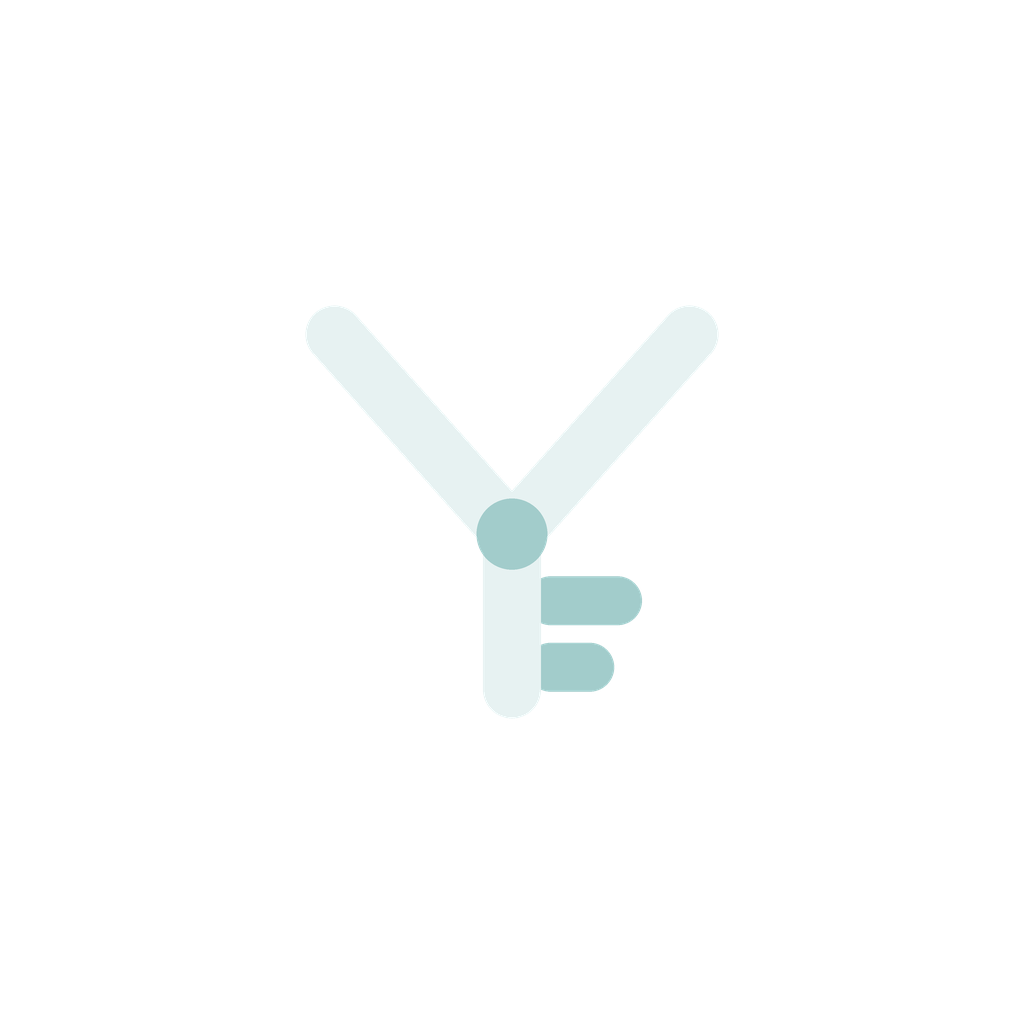
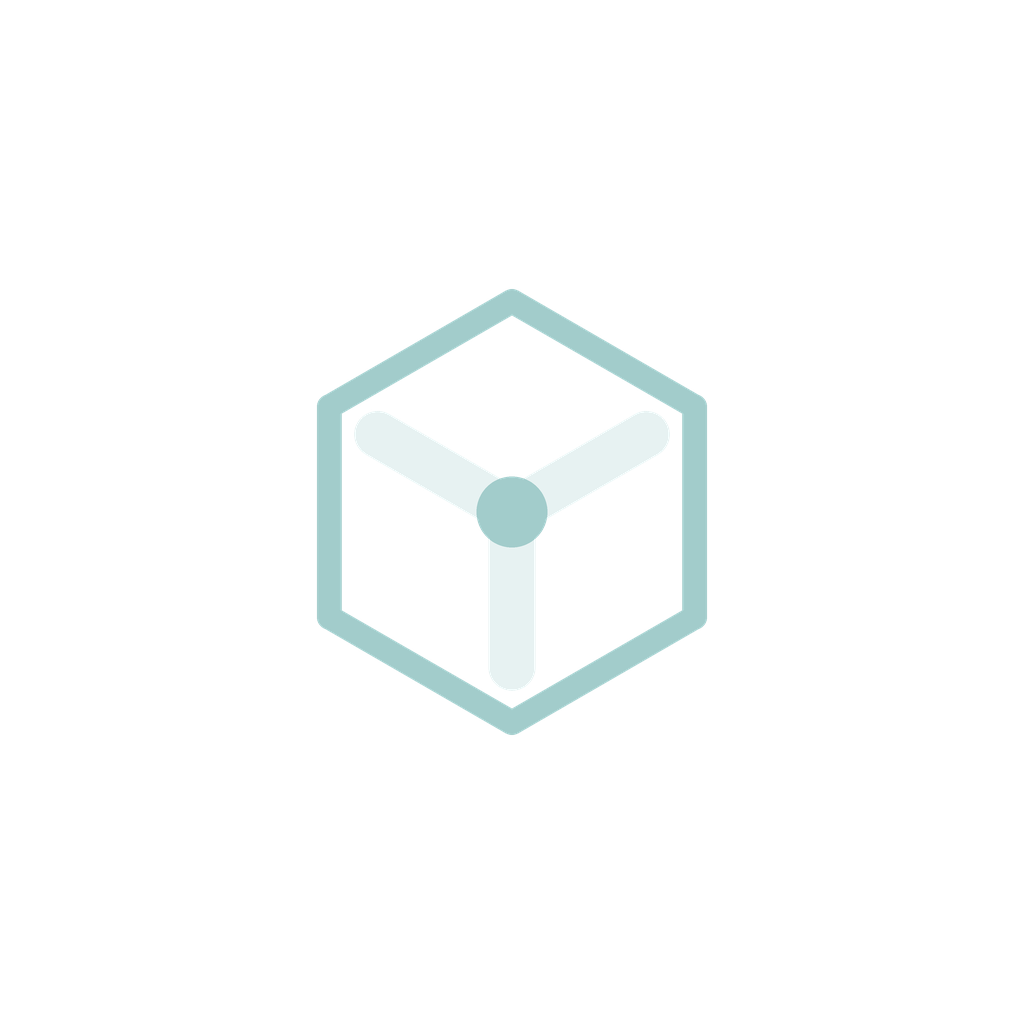
fix(06.1-critique): brand mark is a room corner in its isometric outline, no letter read

Changed region(s): [[0.3125, 0.2812, 0.6875, 0.7188]]

diff --git a/virtumetry/src/components/library-empty-art.tsx b/virtumetry/src/components/library-empty-art.tsx
@@ -13,7 +13,7 @@ const ORIGIN = `translate(${160 - 12 * SCALE} ${86 - 13 * SCALE}) scale(${SCALE}
 
 /** Critique F3: brand corner on the flat drafting field (same as onboarding), accent walking path, no mint. Decorative. */
 export function LibraryEmptyArt() {
-  const { arms, ticks, dot } = glyphs.brandMark;
+  const { arms, outline, dot } = glyphs.brandMark;
   const [w, setW] = useState(0);
   return (
     <View accessible={false} importantForAccessibility="no-hide-descendants" style={styles.panel} onLayout={(e) => setW(e.nativeEvent.layout.width)}>
@@ -23,7 +23,7 @@ export function LibraryEmptyArt() {
           <Path d="M70 130A90 100 0 0 1 250 130" stroke={color.accent} strokeWidth={3} strokeDasharray="2 10" strokeLinecap="round" fill="none" />
           <G transform={ORIGIN}>
             <Path d={arms} stroke={color.text} strokeOpacity={0.9} strokeWidth={0.8} strokeLinecap="round" strokeLinejoin="round" fill="none" />
-            <Path d={ticks} stroke={color.text} strokeOpacity={0.9} strokeWidth={0.6} strokeLinecap="round" fill="none" />
+            <Path d={outline} stroke={color.text} strokeOpacity={0.9} strokeWidth={0.6} strokeLinecap="round" fill="none" />
             <Circle {...dot} fill={color.accent} />
           </G>
         </Svg>

diff --git a/virtumetry/src/design/glyphs.ts b/virtumetry/src/design/glyphs.ts
@@ -28,13 +28,13 @@ export const glyphs = {
   linkOff: {
     d: 'M10 14a4 4 0 0 1 0-5.6l2-2a4 4 0 0 1 5.6 5.6l-1 1 M14 10a4 4 0 0 1 0 5.6l-2 2a4 4 0 0 1-5.6-5.6l1-1 M4 4l16 16',
   },
-  // §13.1 "room corner with a scale": arms/stem in text (width 2), ticks + vertex dot in primary.
+  // Room corner inside its isometric outline: three edges in text, outline + vertex dot in primary (round-2 critique: no letter read).
   // Ticks (major + minor) sit on the stem: height is the measurement. Mirrored by scripts/render-brand.py.
   brandMark: {
-    arms: 'M4 5L12 14M20 5L12 14M12 14V21',
-    ticks: 'M13.75 17h3 M13.75 20h1.75',
+    arms: 'M12 14L5.94 10.5M12 14L18.06 10.5M12 14L12.0 21.0',
+    outline: 'M12.0 4.5L3.77 9.25L3.77 18.75L12.0 23.5L20.23 18.75L20.23 9.25Z',
     dot: { cx: 12, cy: 14, r: 1.6 },
   },
-} as const satisfies Record<string, Glyph | { arms: string; ticks: string; dot: Dot }>;
+} as const satisfies Record<string, Glyph | { arms: string; outline: string; dot: Dot }>;
 
 export type GlyphId = Exclude<keyof typeof glyphs, 'brandMark'>;

diff --git a/virtumetry/src/components/ui/brand-mark.tsx b/virtumetry/src/components/ui/brand-mark.tsx
@@ -16,13 +16,13 @@ type Props = {
 
 /** UI-SPEC §13.1 "room corner with a scale". Only the lockup is exposed to screen readers. */
 export function BrandMark({ size = 32, variant = 'mark', mono, color: monoColor = color.textMuted }: Props) {
-  const { arms, ticks, dot } = glyphs.brandMark;
+  const { arms, outline, dot } = glyphs.brandMark;
   const stem = mono ? monoColor : color.text;
   const accent = mono ? monoColor : color.primary;
   const mark = (
     <Svg width={size} height={size} viewBox="0 0 24 24" accessible={false}>
       <Path d={arms} stroke={stem} strokeWidth={size <= 20 ? 1.75 : 2} strokeLinecap="round" strokeLinejoin="round" fill="none" />
-      <Path d={ticks} stroke={accent} strokeWidth={1.5} strokeLinecap="round" fill="none" />
+      <Path d={outline} stroke={accent} strokeWidth={1} strokeLinecap="round" strokeLinejoin="round" fill="none" />
       <Circle {...dot} fill={accent} />
     </Svg>
   );

diff --git a/virtumetry/scripts/render-brand.py b/virtumetry/scripts/render-brand.py
@@ -15,11 +15,11 @@ PRIMARY = (162, 204, 203)
 WHITE = (255, 255, 255)
 BLACK = (0, 0, 0)
 
-ARMS = [((4, 5), (12, 14)), ((20, 5), (12, 14)), ((12, 14), (12, 21))]
-# Ticks sit on the vertical stem: height is the measurement. Drawn under the arms so they read as one ruler.
-TICKS = [((13.75, 17), (16.75, 17)), ((13.75, 20), (15.5, 20))]  # major + minor
+ARMS = [((12, 14), (5.94, 10.5)), ((12, 14), (18.06, 10.5)), ((12, 14), (12.0, 21.0))]
+# A room corner (three edges) inside its fine isometric outline: reads as a scanned room, never as a letter.
+OUTLINE = [((12.0, 4.5), (3.77, 9.25)), ((3.77, 9.25), (3.77, 18.75)), ((3.77, 18.75), (12.0, 23.5)), ((12.0, 23.5), (20.23, 18.75)), ((20.23, 18.75), (20.23, 9.25)), ((20.23, 9.25), (12.0, 4.5))]  # outline edges
 DOT = ((12, 14), 1.6)
-CENTER = (12, 13)  # middle of the mark's bounding box (4..20, 5..21)
+CENTER = (12, 14)  # middle of the outline (4.5..23.5)
 
 SS = 4  # supersampling factor
 OUT = Path(__file__).resolve().parent.parent / "assets" / "images"
@@ -35,14 +35,14 @@ def _line(d, a, b, width, color):
         d.ellipse([x - r, y - r, x + r, y + r], fill=color)
 
 
-def draw_mark(img, box, colors, stroke=2.6, tick=2.2):
+def draw_mark(img, box, colors, stroke=2.1, tick=1.1):
     """Draw the 24-unit mark into img (supersampled), centred; box = 24 units as a fraction of the canvas."""
     arm_c, tick_c = colors
     size = img.size[0]
     scale = size * box / 24
     p = lambda pt: (size / 2 + (pt[0] - CENTER[0]) * scale, size / 2 + (pt[1] - CENTER[1]) * scale)  # noqa: E731
     d = ImageDraw.Draw(img)
-    for a, b in TICKS:
+    for a, b in OUTLINE:
         _line(d, p(a), p(b), tick * scale, tick_c)
     for a, b in ARMS:
         _line(d, p(a), p(b), stroke * scale, arm_c)
@@ -116,7 +116,7 @@ if __name__ == "__main__":
     render("splash-icon.png", 1024, 0.80, (TEXT, PRIMARY), "RGBA")
     render("android-icon-foreground.png", 1024, 0.52, (TEXT, PRIMARY), "RGBA")
     render("android-icon-monochrome.png", 1024, 0.52, (WHITE, WHITE), "RGBA")
-    render("favicon.png", 64, 0.92, (TEXT, PRIMARY), "RGB", bg=BG, stroke=3, tick=2.6)
+    render("favicon.png", 64, 0.92, (TEXT, PRIMARY), "RGB", bg=BG, stroke=3, tick=1.6)
     render_tab("library", _stack)
     render_tab("settings", _gear)
     print("rendered to", OUT)
